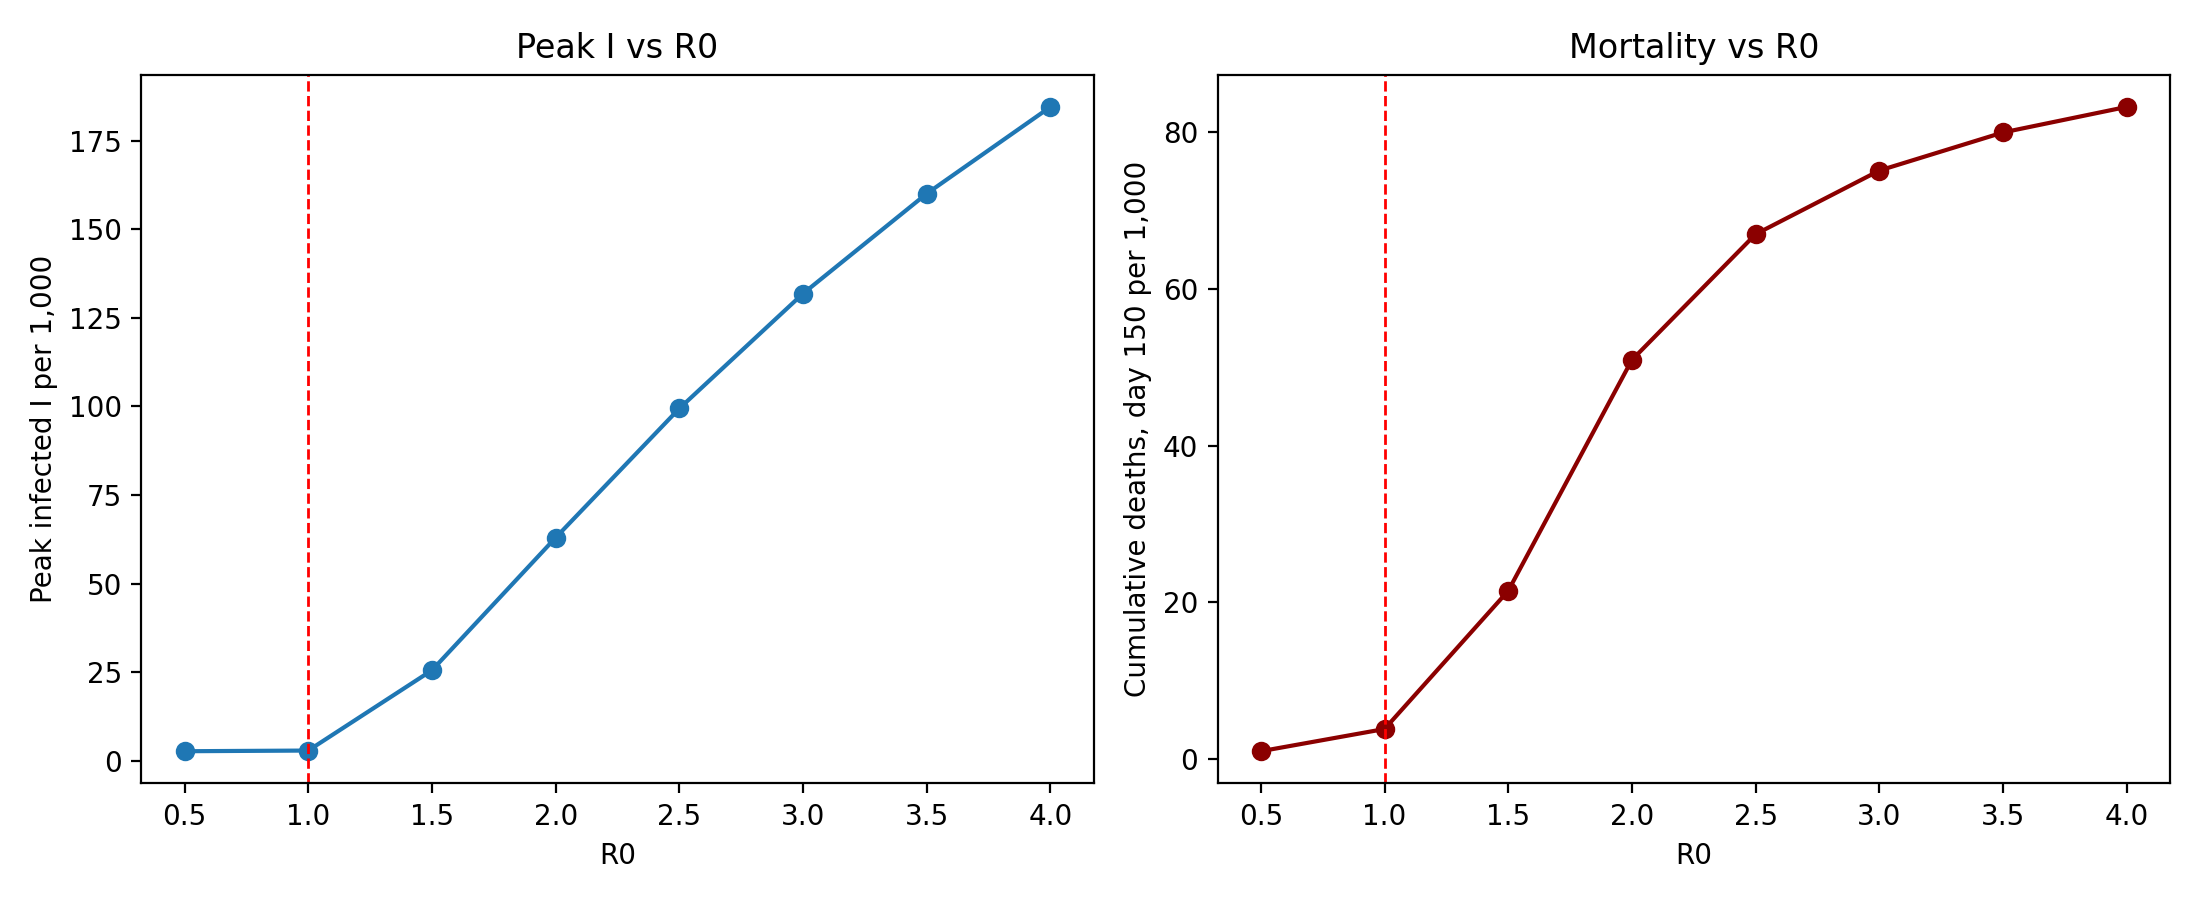
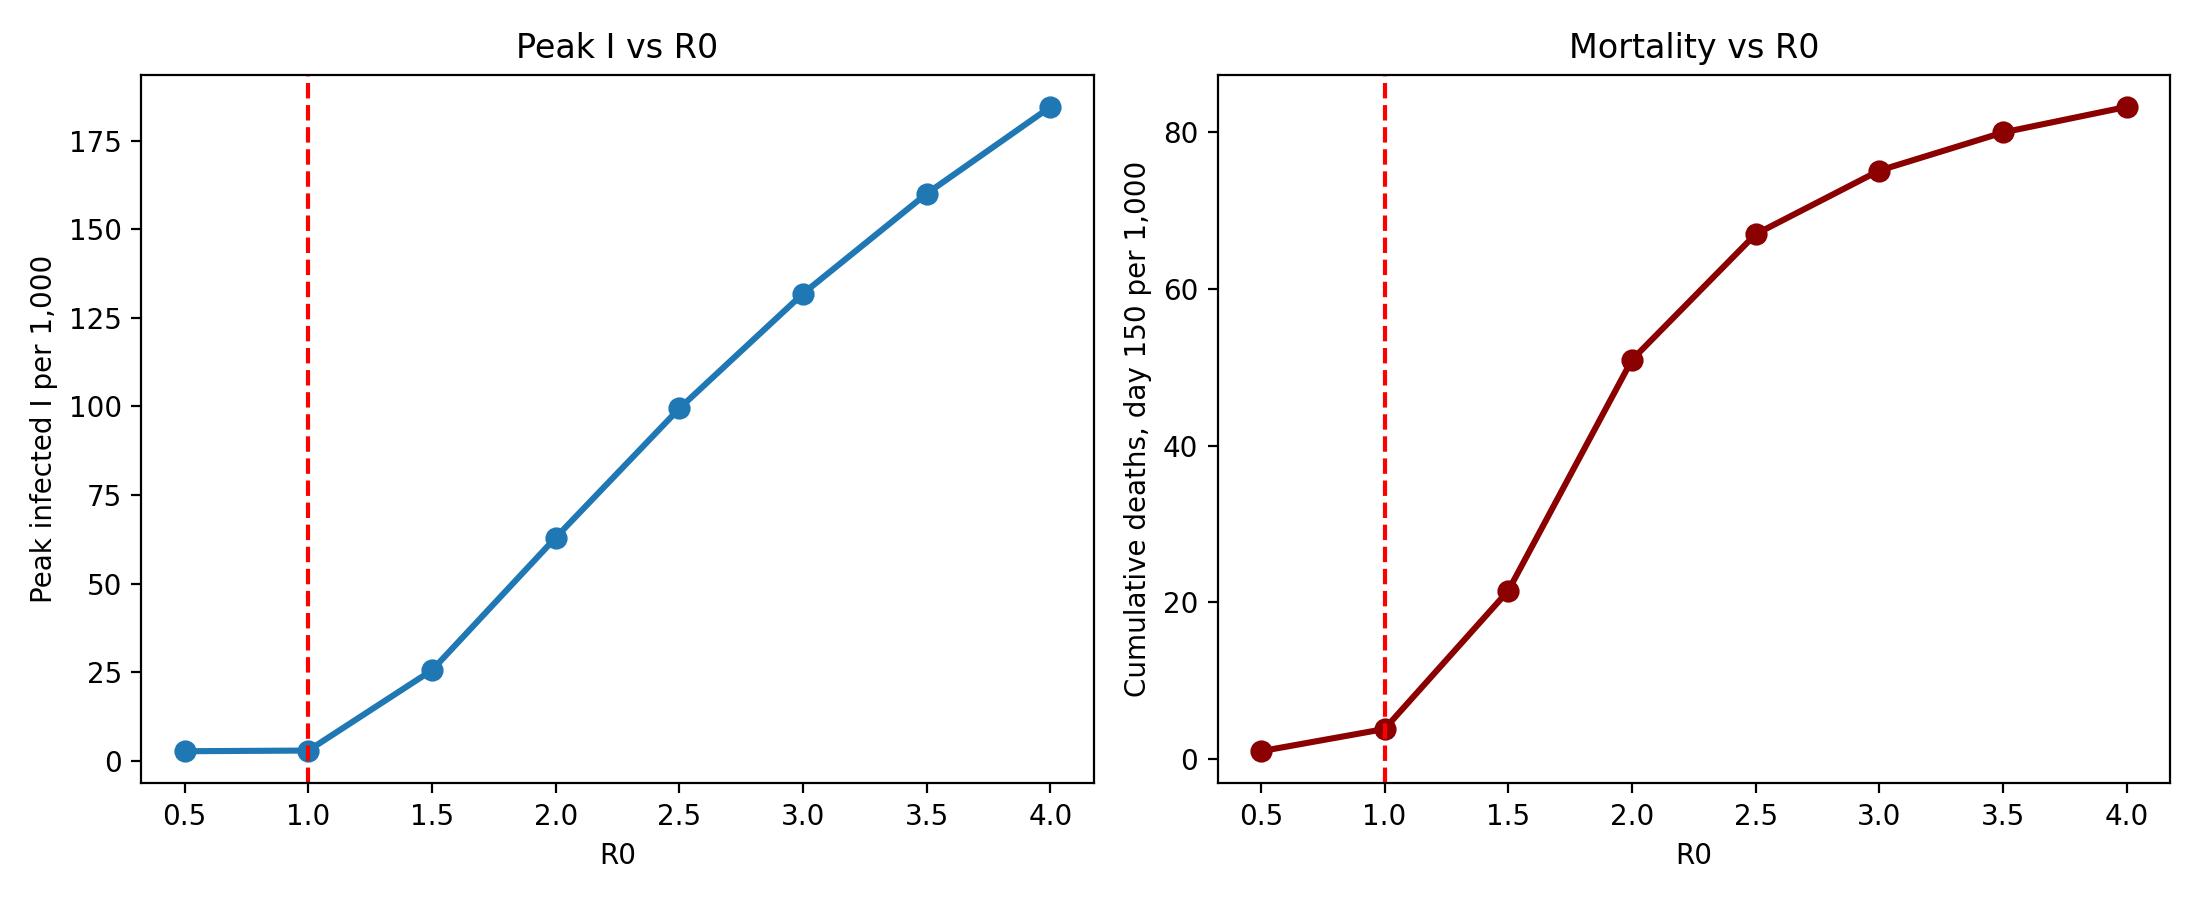
Thicken lines in Figures 2, 4, 6; add missing generator for Figure 2
fig_corrected_coeff_a.py reproduces the manuscript's Figure 2 (center-
manifold coefficient a sweep), which had no generating script in
codes/ before now. Also thickens Scenario 1 and Scenario 3 plot lines
in run_all.py.

diff --git a/codes/fig_corrected_a.py b/codes/fig_corrected_a.py
@@ -1,0 +1,65 @@
+"""
+Generates the manuscript's actual Figure 2 (fig_corrected_coeff_a_v2.png):
+center-manifold coefficient a, swept over the hospital recovery rate phi_1
+and the return-to-susceptibility rates epsilon_1=epsilon_2, at the Table 2
+baseline. Uses the same center-manifold formula as model.py / Section 3.
+
+This is the real manuscript figure, distinct from
+bifurcation_verification.py's own independent verification_* plot of the
+same underlying quantity (see that script's docstring).
+"""
+from pathlib import Path
+import numpy as np
+import matplotlib
+matplotlib.use('Agg')
+import matplotlib.pyplot as plt
+from model import BASELINE, derived
+
+HERE = Path(__file__).resolve().parent
+OUT = HERE / 'results' / 'figures'
+OUT.mkdir(parents=True, exist_ok=True)
+
+
+def center_manifold_a(p):
+    K, L, omega_1, omega_2, Dcal, P_H, P_M = derived(p)
+    alpha_c = (p['mu_1'] + p['beta']) * L * Dcal / (
+        p['beta'] * (Dcal + p['kappa'] * p['xi_H'] * P_H + p['kappa'] * p['eta_M'] * P_M))
+    w_E = L / p['beta']
+    w_H = p['kappa'] * P_H / Dcal
+    w_M = p['kappa'] * P_M / Dcal
+    w_R = (p['phi_1'] * w_H + p['phi_2'] * w_M) / p['mu_1']
+    v_E = p['beta'] / (p['mu_1'] + p['beta'])
+    B = 1 + p['xi_H'] * w_H + p['eta_M'] * w_M
+    A_prime = w_E + 1 + w_H + w_M + w_R
+    S0 = p['Lambda'] / p['mu_1']
+    a = -(2 * alpha_c * v_E / S0) * B * A_prime
+    return a
+
+
+phi1_range = np.linspace(0.02, 0.95, 60)
+eps_values = [0.0, 0.001, 0.02, 0.10, 0.30]
+
+fig, ax = plt.subplots(figsize=(7, 5))
+a_max_overall = -np.inf
+for eps in eps_values:
+    a_vals = []
+    for phi1 in phi1_range:
+        p = dict(BASELINE, phi_1=phi1, epsilon_1=eps, epsilon_2=eps)
+        a = center_manifold_a(p)
+        a_vals.append(a)
+        a_max_overall = max(a_max_overall, a)
+    ax.plot(phi1_range, a_vals, lw=2.4, label=f"eps1=eps2={eps}")
+
+ax.axhline(0, color='black', linewidth=1.5)
+ax.axvline(0.15, color='gray', ls=':', lw=1.5, label='baseline phi1=0.15')
+ax.set_xlabel('Hospital recovery rate phi_1')
+ax.set_ylabel('center-manifold coefficient a')
+ax.set_title('a is negative throughout (forward bifurcation only)')
+ax.legend(fontsize=9)
+fig.tight_layout()
+fig.savefig(OUT / 'fig_corrected_coeff_a_v2.png', dpi=300)
+plt.close(fig)
+
+print(f"max(a) over full sweep = {a_max_overall:.6e} (should be < 0)")
+assert a_max_overall < 0, "a was not strictly negative everywhere -- investigate before trusting the figure"
+print(f"Saved to {OUT / 'fig_corrected_coeff_a_v2.png'}")

diff --git a/codes/run_all.py b/codes/run_all.py
@@ -27,9 +27,9 @@ print(f"peak M={M.max():.2f}/1000 ({M[pk]/N_L[pk]*100:.1f}%), peak H at same day
 print(f"cumulative deaths day150={D[-1]:.2f}/1000")
 fig, axes = plt.subplots(1,2, figsize=(11,4.5))
 for name,arr in [('S',S),('E',E),('I',I),('H',H),('M',M),('R',R)]:
-    axes[0].plot(t, arr, label=name)
+    axes[0].plot(t, arr, label=name, lw=2.2)
 axes[0].legend(fontsize=8); axes[0].set_xlabel('Time (days)'); axes[0].set_ylabel('Population per 1,000'); axes[0].set_title(f'Baseline dynamics, R0={R0(BASELINE):.2f}')
-axes[1].plot(t, D, color='black'); axes[1].set_xlabel('Time (days)'); axes[1].set_ylabel('Cumulative deaths per 1,000'); axes[1].set_title('Cumulative mortality')
+axes[1].plot(t, D, color='black', lw=2.2); axes[1].set_xlabel('Time (days)'); axes[1].set_ylabel('Cumulative deaths per 1,000'); axes[1].set_title('Cumulative mortality')
 fig.tight_layout(); fig.savefig(f"{OUT}/scenario1_baseline.png", dpi=200); plt.close(fig)
 
 # ---------- Scenario 2: Care-seeking (vary gamma) ----------
@@ -59,11 +59,11 @@ for a in alphas:
     S,E,I,H,M,R,D = sol.T
     peak_I.append(I.max()); deaths150.append(D[-1])
     print(f"alpha={a:.5f} R0={R0(p):.3f} peakI={I.max():.3f} deaths150={D[-1]:.2f}")
-axes[0].plot([R0(dict(BASELINE,alpha=a)) for a in alphas], peak_I, 'o-')
-axes[0].axvline(1, color='red', ls='--', lw=1)
+axes[0].plot([R0(dict(BASELINE,alpha=a)) for a in alphas], peak_I, 'o-', lw=2.2, ms=7)
+axes[0].axvline(1, color='red', ls='--', lw=1.5)
 axes[0].set_xlabel('R0'); axes[0].set_ylabel('Peak infected I per 1,000'); axes[0].set_title('Peak I vs R0')
-axes[1].plot([R0(dict(BASELINE,alpha=a)) for a in alphas], deaths150, 'o-', color='darkred')
-axes[1].axvline(1, color='red', ls='--', lw=1)
+axes[1].plot([R0(dict(BASELINE,alpha=a)) for a in alphas], deaths150, 'o-', color='darkred', lw=2.2, ms=7)
+axes[1].axvline(1, color='red', ls='--', lw=1.5)
 axes[1].set_xlabel('R0'); axes[1].set_ylabel('Cumulative deaths, day 150 per 1,000'); axes[1].set_title('Mortality vs R0')
 fig.tight_layout(); fig.savefig(f"{OUT}/scenario3_contact_sweep.png", dpi=200); plt.close(fig)
 print(f"lowest alpha deaths={deaths150[0]:.3f} highest alpha deaths={deaths150[-1]:.3f} ratio={deaths150[-1]/deaths150[0]:.2f}")
